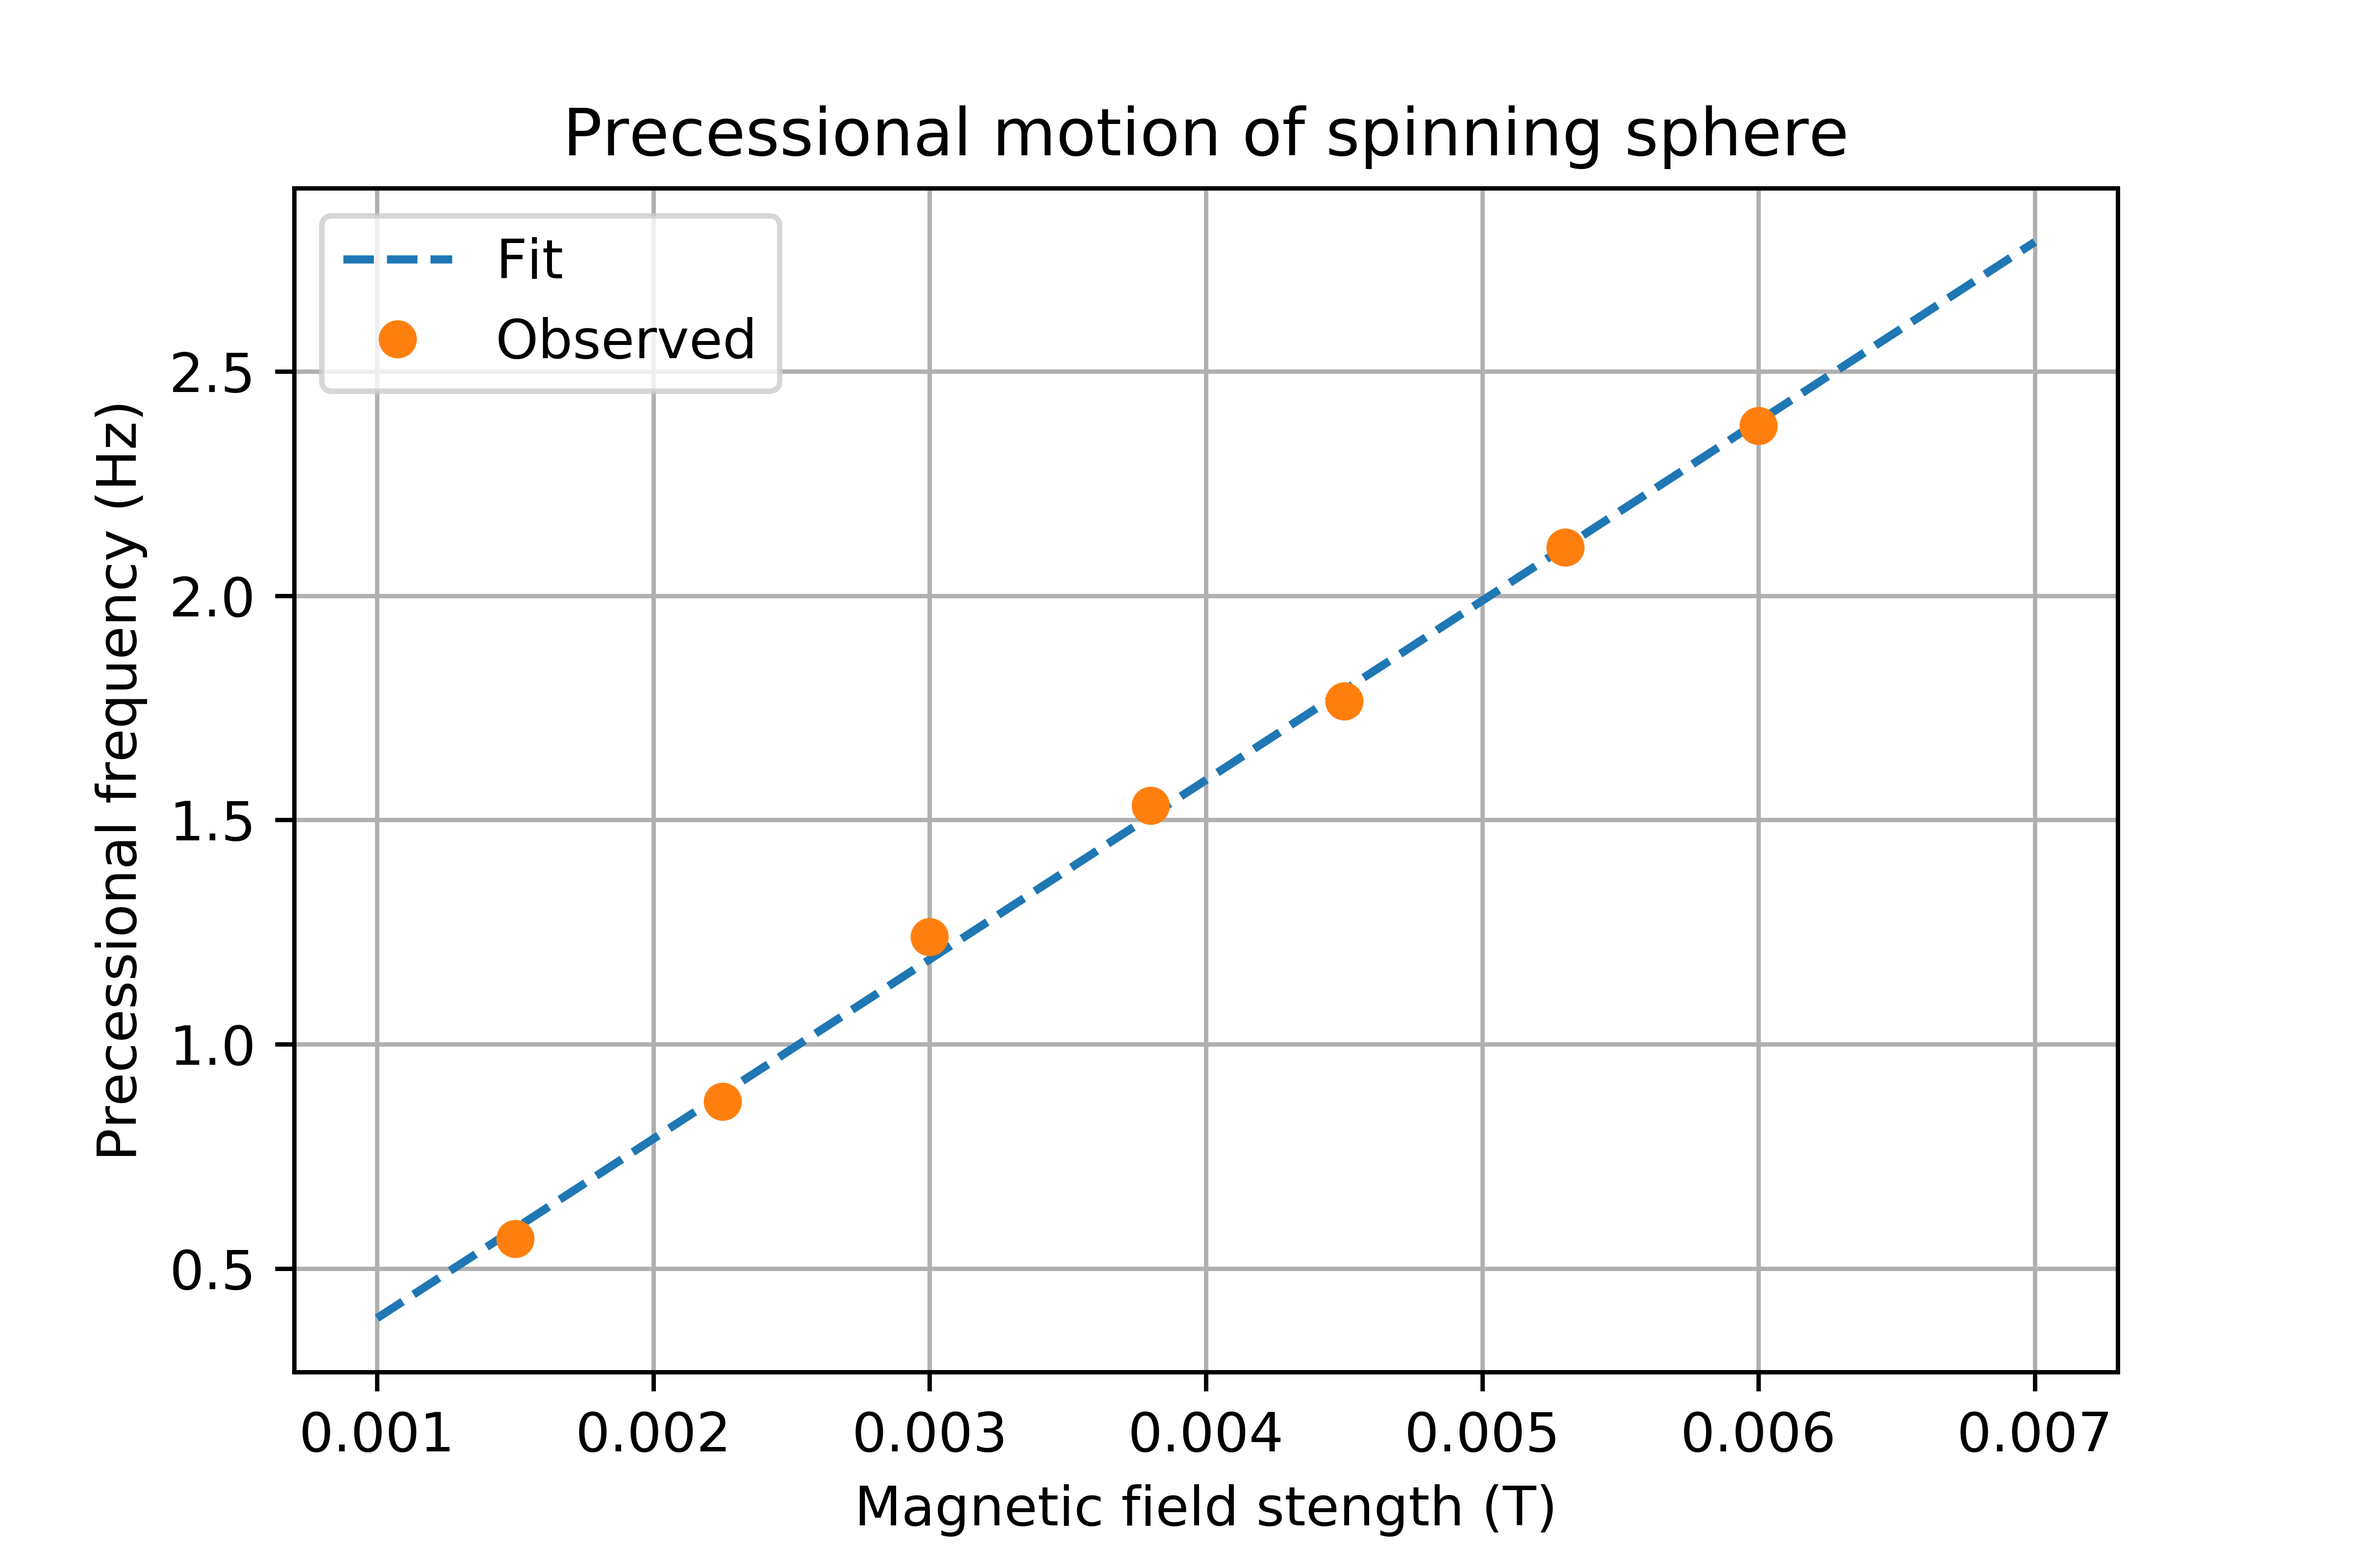
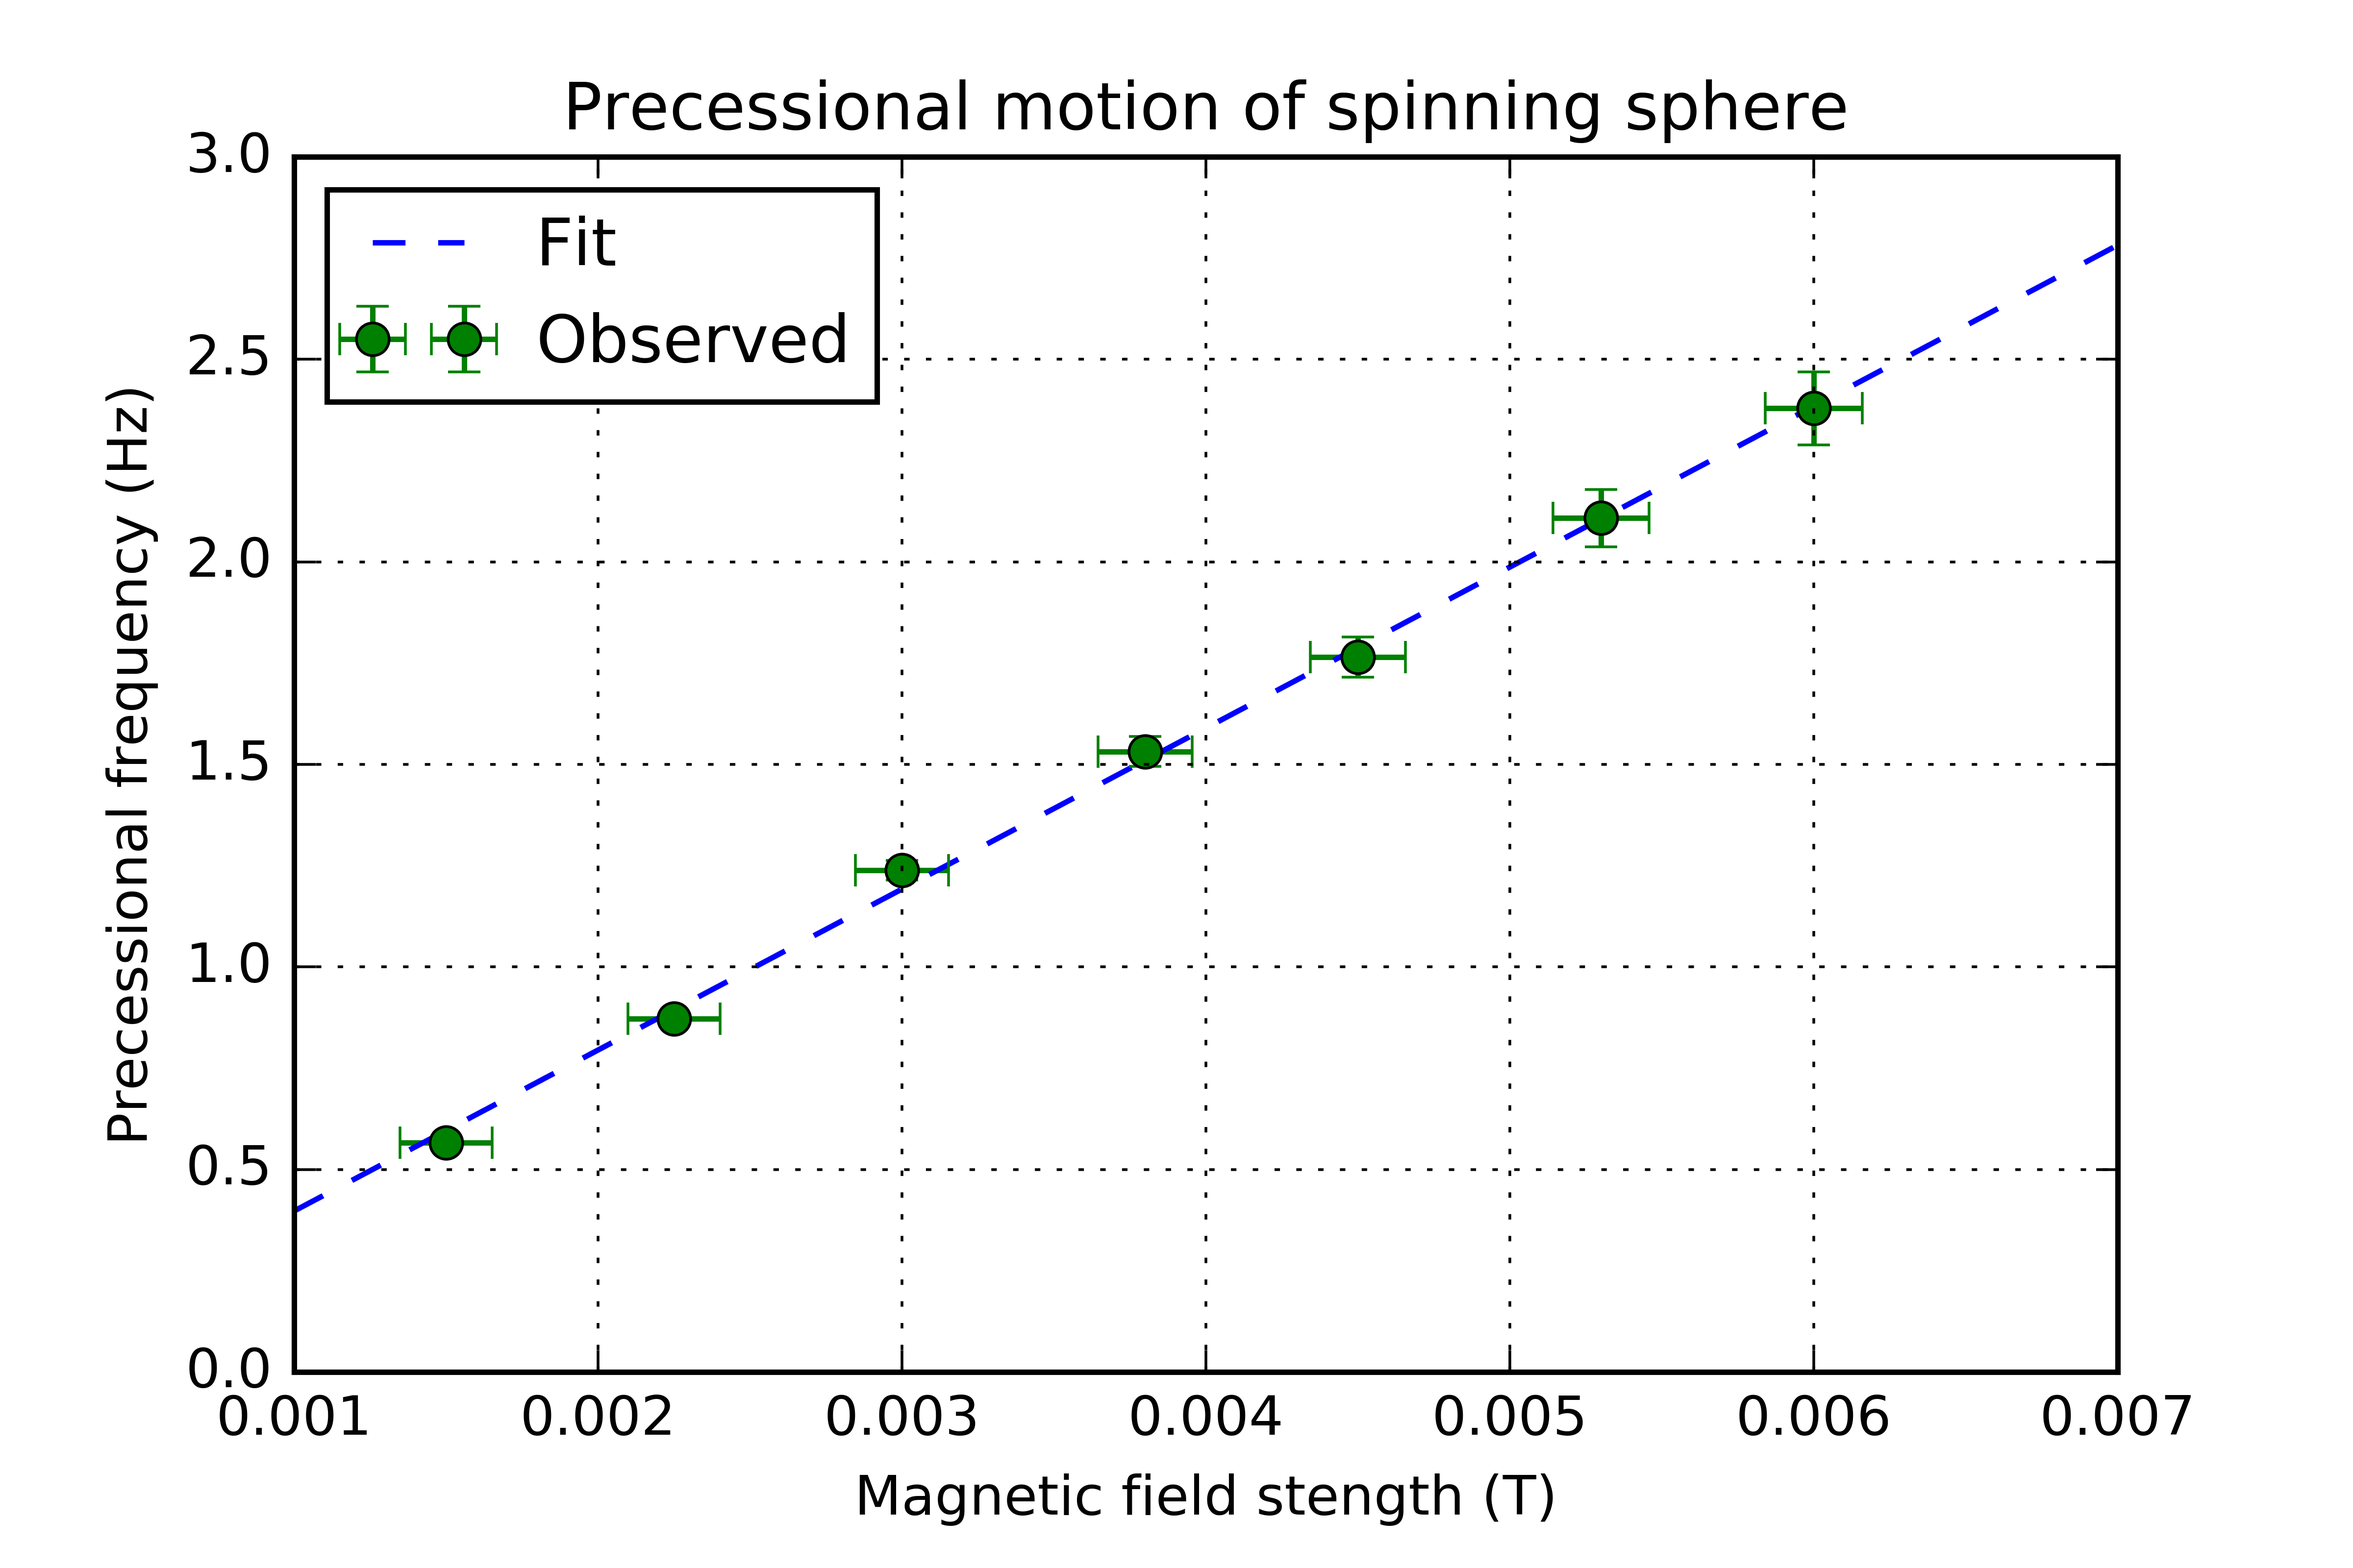
Improved scripts and magnetic moment plots

diff --git a/lab4/spherical_pendulum.py b/lab4/spherical_pendulum.py
@@ -1,46 +1,47 @@
 import matplotlib.pyplot as plt
 import numpy as np
+import statsmodels.api as sm
 
-I = 4.7  # [kg*m^2]
-delta_I = 0.3  # [kg*m^2]
+I = 4.7E-5  # [kg*m^2]
+delta_I = 0.3E-5  # [kg*m^2]
+delta_T = 0.01  # [s]
 
 current = np.array([2.5, 2.7, 2.9, 3.1, 3.3, 3.4, 3.7, 3.8, 4.0])
 inverse_b_field = np.array([666.67, 476.19, 370.37, 303.03, 256.41,
                            222.22, 196.08, 175.44, 158.73])
-
+delta_inverse_B = np.sqrt(2.28E-8 + (1.70E-10)*current**2)
 
 period_squared = np.array([2.859, 2.042, 1.703, 1.407, 1.184, 0.9487, 0.9226,
                            0.8254, 0.7841])
+delta_period_squared = 2 * np.sqrt(period_squared) * delta_T
 
-coefficients, residuals = np.polyfit(inverse_b_field, period_squared, deg=1,
-                                     cov=True)
+model = sm.OLS(period_squared, inverse_b_field)
+fit = model.fit()
+slope = fit.params[0]
+slope_uncertainty = fit.bse[0]
 
-y_fit = coefficients[0]*np.linspace(100, 700, num=50) + coefficients[1]
+y_fit = slope*np.linspace(100, 700, num=50)
 
-slope = coefficients[0]
-intercept = coefficients[1]
+mu = 4*I*(np.pi**2)/slope
+delta_mu = np.sqrt((0.3/4.7)**2 + (0.006/4.415)**2)
 
-slope_uncertainty = np.sqrt(residuals[0][0])
-intercept_uncertainty = np.sqrt(residuals[1][1])
-
-mu = I*4*np.pi**2/slope
 
 print "Slope: {} +/- {}".format(slope, slope_uncertainty)
-print "Intercept: {} +/- {}".format(intercept, intercept_uncertainty)
-print "\n\nmu = {} +/- {}".format(mu, 0.1)
+print "\n\nmu = {} +/- {}".format(mu, delta_mu)
 
 # Plot data points and quadratic fit
 fig, ax = plt.subplots()
 
 ax.plot(np.linspace(100, 700, num=50), y_fit, label="Fit", linestyle="--")
 
-ax.errorbar(inverse_b_field, period_squared, fmt='o', label="Observed")
+ax.errorbar(inverse_b_field, period_squared, fmt='o', label="Observed",
+            xerr=[delta_inverse_B, delta_inverse_B],
+            yerr=[delta_period_squared, delta_period_squared])
 
 ax.set(title="Harmonic Oscillation of a spherical pendulum",
        xlabel="Inverse magnetic field stength (1/T)",
        ylabel="Square of the period (s^2)")
 ax.legend(loc='upper left')
 plt.grid(True)
-fig.set_dpi(800)
-fig.savefig('plots/spherical_pendulum.png')
+fig.savefig('plots/spherical_pendulum.png', dpi=800)
 fig.show()

diff --git a/lab4/precessional_sphere.py b/lab4/precessional_sphere.py
@@ -1,46 +1,48 @@
 import matplotlib.pyplot as plt
 import numpy as np
+import statsmodels.api as sm
 
-L = 118  # [kg*m^2]
-delta_I = 8  # [kg*m^2]
+L = 1.18E-3  # [kg*m^2]
+delta_L = 0.08E-3  # [kg*m^2]
+delta_T = 0.1  # [s]
 
-current = np.array([2.5, 2.7, 2.9, 3.1, 3.3, 3.4, 3.7, 3.8, 4.0])
+current = np.array([1.0, 1.5, 2.0, 2.5, 3.0, 3.5, 4.0])
 b_field = np.array([0.0015, 0.00225, 0.0030, 0.0038,
                     0.0045, 0.0053, 0.0060])
-
+delta_B = np.sqrt(2.28E-8 + (1.70E-10)*current**2)
 
 precessional_freq = np.array([0.5661, 0.8727, 1.239, 1.532, 1.765,
                               2.108, 2.379])
+period = np.array([11.10, 7.20, 5.07, 4.10, 3.56, 2.98, 2.64])
+delta_pf = 2*np.pi*delta_T/period**2
 
-coefficients, residuals = np.polyfit(b_field, precessional_freq, deg=1,
-                                     cov=True)
+model = sm.OLS(precessional_freq, b_field)
+fit = model.fit()
+slope = fit.params[0]
+slope_uncertainty = fit.bse[0]
 
-y_fit = coefficients[0]*np.linspace(0.001, 0.007, num=50) + coefficients[1]
-
-slope = coefficients[0]
-intercept = coefficients[1]
-
-slope_uncertainty = np.sqrt(residuals[0][0])
-intercept_uncertainty = np.sqrt(residuals[1][1])
+y_fit = slope*np.linspace(0.001, 0.007, num=50)
 
 mu = slope*L
+delta_mu = np.sqrt((delta_L/L)**2 + (slope_uncertainty/slope)**2)
+
 
 print "Slope: {} +/- {}".format(slope, slope_uncertainty)
-print "Intercept: {} +/- {}".format(intercept, intercept_uncertainty)
-print "\n\nmu = {} +/- {}".format(mu, 0.1)
+print "\n\nmu = {} +/- {}".format(mu, delta_mu)
 
 # Plot data points and quadratic fit
 fig, ax = plt.subplots()
 
 ax.plot(np.linspace(0.001, 0.007, num=50), y_fit, label="Fit", linestyle="--")
 
-ax.errorbar(b_field, precessional_freq, fmt='o', label="Observed")
+ax.errorbar(b_field, precessional_freq, fmt='o', label="Observed",
+            xerr=[delta_B, delta_B],
+            yerr=[delta_pf, delta_pf])
 
 ax.set(title="Precessional motion of spinning sphere",
        xlabel="Magnetic field stength (T)",
        ylabel="Precessional frequency (Hz)")
 ax.legend(loc='upper left')
 plt.grid(True)
-fig.set_dpi(800)
-fig.savefig('plots/prec_freq.png')
+fig.savefig('plots/prec_freq.png', dpi=800)
 fig.show()

diff --git a/lab4/mag_grav_torque.py b/lab4/mag_grav_torque.py
@@ -8,7 +8,7 @@ g = 9.8  # [m*s^2]
 current = np.array([2.5, 2.7, 2.9, 3.1, 3.3, 3.4, 3.7, 3.8, 4.0])
 b_field = np.array([0.00375, 0.00405, 0.00435, 0.00465, 0.00495,
                     0.00510, 0.00555, 0.00570, 0.0060])
-delta_B = 0.0015*current*np.sqrt(2.28E-8 + (1.70E-10)*current**2)
+delta_B = np.sqrt(2.28E-8 + (1.70E-10)*current**2)
 
 r = np.array([6.7, 7.8, 8.7, 10.2, 10.6, 11.4, 12.3, 12.8, 14.0])
 delta_r = 0.3*np.ones(len(r))  # [cm]
@@ -43,6 +43,5 @@ ax.set(title="Magnetic torque equals Gravitational torque",
        ylabel="Radius (cm)")
 ax.legend(loc='upper left')
 plt.grid(True)
-fig.set_dpi(800)
-fig.savefig('plots/mag_grav.png')
+fig.savefig('plots/mag_grav.png', dpi=800)
 fig.show()
